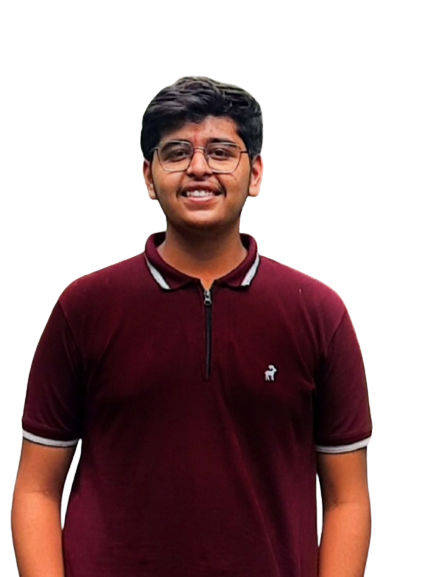
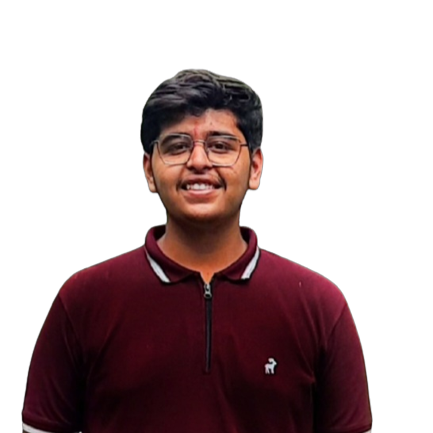
Updated index page.
Updated poster.
Inserted video of my project LIFI.
Updated description of all projects.

diff --git a/index.html b/index.html
@@ -34,7 +34,7 @@
     <script src="https://cdn.jsdelivr.net/npm/bootstrap@4.6.2/dist/js/bootstrap.min.js" integrity="sha384-+sLIOodYLS7CIrQpBjl+C7nPvqq+FbNUBDunl/OZv93DB7Ln/533i8e/mZXLi/P+" crossorigin="anonymous"></script>
     -->
 
-    <nav class="navbar navbar-expand-lg navbar-dark bg-dark d-flex">
+    <nav class="navbar navbar-expand-lg navbar-light bg-light d-flex">
         <a class="navbar-brand" href="#">Portfolio</a>
         <button class="navbar-toggler" type="button" data-toggle="collapse" data-target="#navbarScroll"
             aria-controls="navbarScroll" aria-expanded="false" aria-label="Toggle navigation">
@@ -55,15 +55,15 @@
                         Contact
                     </a>
                     <ul class="dropdown-menu">
-                        <li><a class="dropdown-item" href="https://www.linkedin.com/in/shripad-kanakdande-960540221"
+                        <li><a class="dropdown-item d-flex" href="https://www.linkedin.com/in/shripad-kanakdande-960540221"
                                 style="color: rgb(19, 19, 187);">LinkedIn</a></li>
-                        <li><a class="dropdown-item" href="https://github.com/ShripadKanadande">Github</a></li>
+                        <li><a class="dropdown-item d-flex" href="https://github.com/ShripadKanadande">Github</a></li>
                         <li>
                             <hr class="dropdown-divider">
                         </li>
-                        <li><a class="dropdown-item" href="https://mobile.twitter.com/Fightfo00221766"
+                        <li><a class="dropdown-item d-flex" href="https://mobile.twitter.com/Fightfo00221766"
                                 style="color: rgb(54, 117, 243);">Twitter</a></li>
-                        <li><a class="dropdown-item" href="https://instagram.com/shripad2706?igshid=ZDdkNTZiNTM="
+                        <li><a class="dropdown-item flex" href="https://instagram.com/shripad2706?igshid=ZDdkNTZiNTM="
                                 style="color: rgb(191, 33, 62);">Instagram</a></li>
                     </ul>
                 </li>
@@ -75,7 +75,7 @@
         </div>
     </nav>
     <!-- <br> -->
-    <img src="Shri.jpg" class="img-fluid" alt="...">
+    <img src="Shri1.png" class="img-fluid" alt="...">
     <div class="container my-4 mx- ">
     </div>
     <div class="conainer">
@@ -119,6 +119,13 @@
             </div>
         </div>
     </div>
+    <footer class="my-5 pt-5 text-muted text-center text-small">
+        <p class="mb-1">© Shripad Kanakdande</p>
+        <ul class="list-inline">
+          <li class="list-inline-item"><a href="#">Privacy</a></li>
+          <li class="list-inline-item"><a href="#">Terms</a></li>
+          <li class="list-inline-item"><a href="#">Support</a></li>
+        </ul>
+      </footer>
 </body>
-
 </html>
